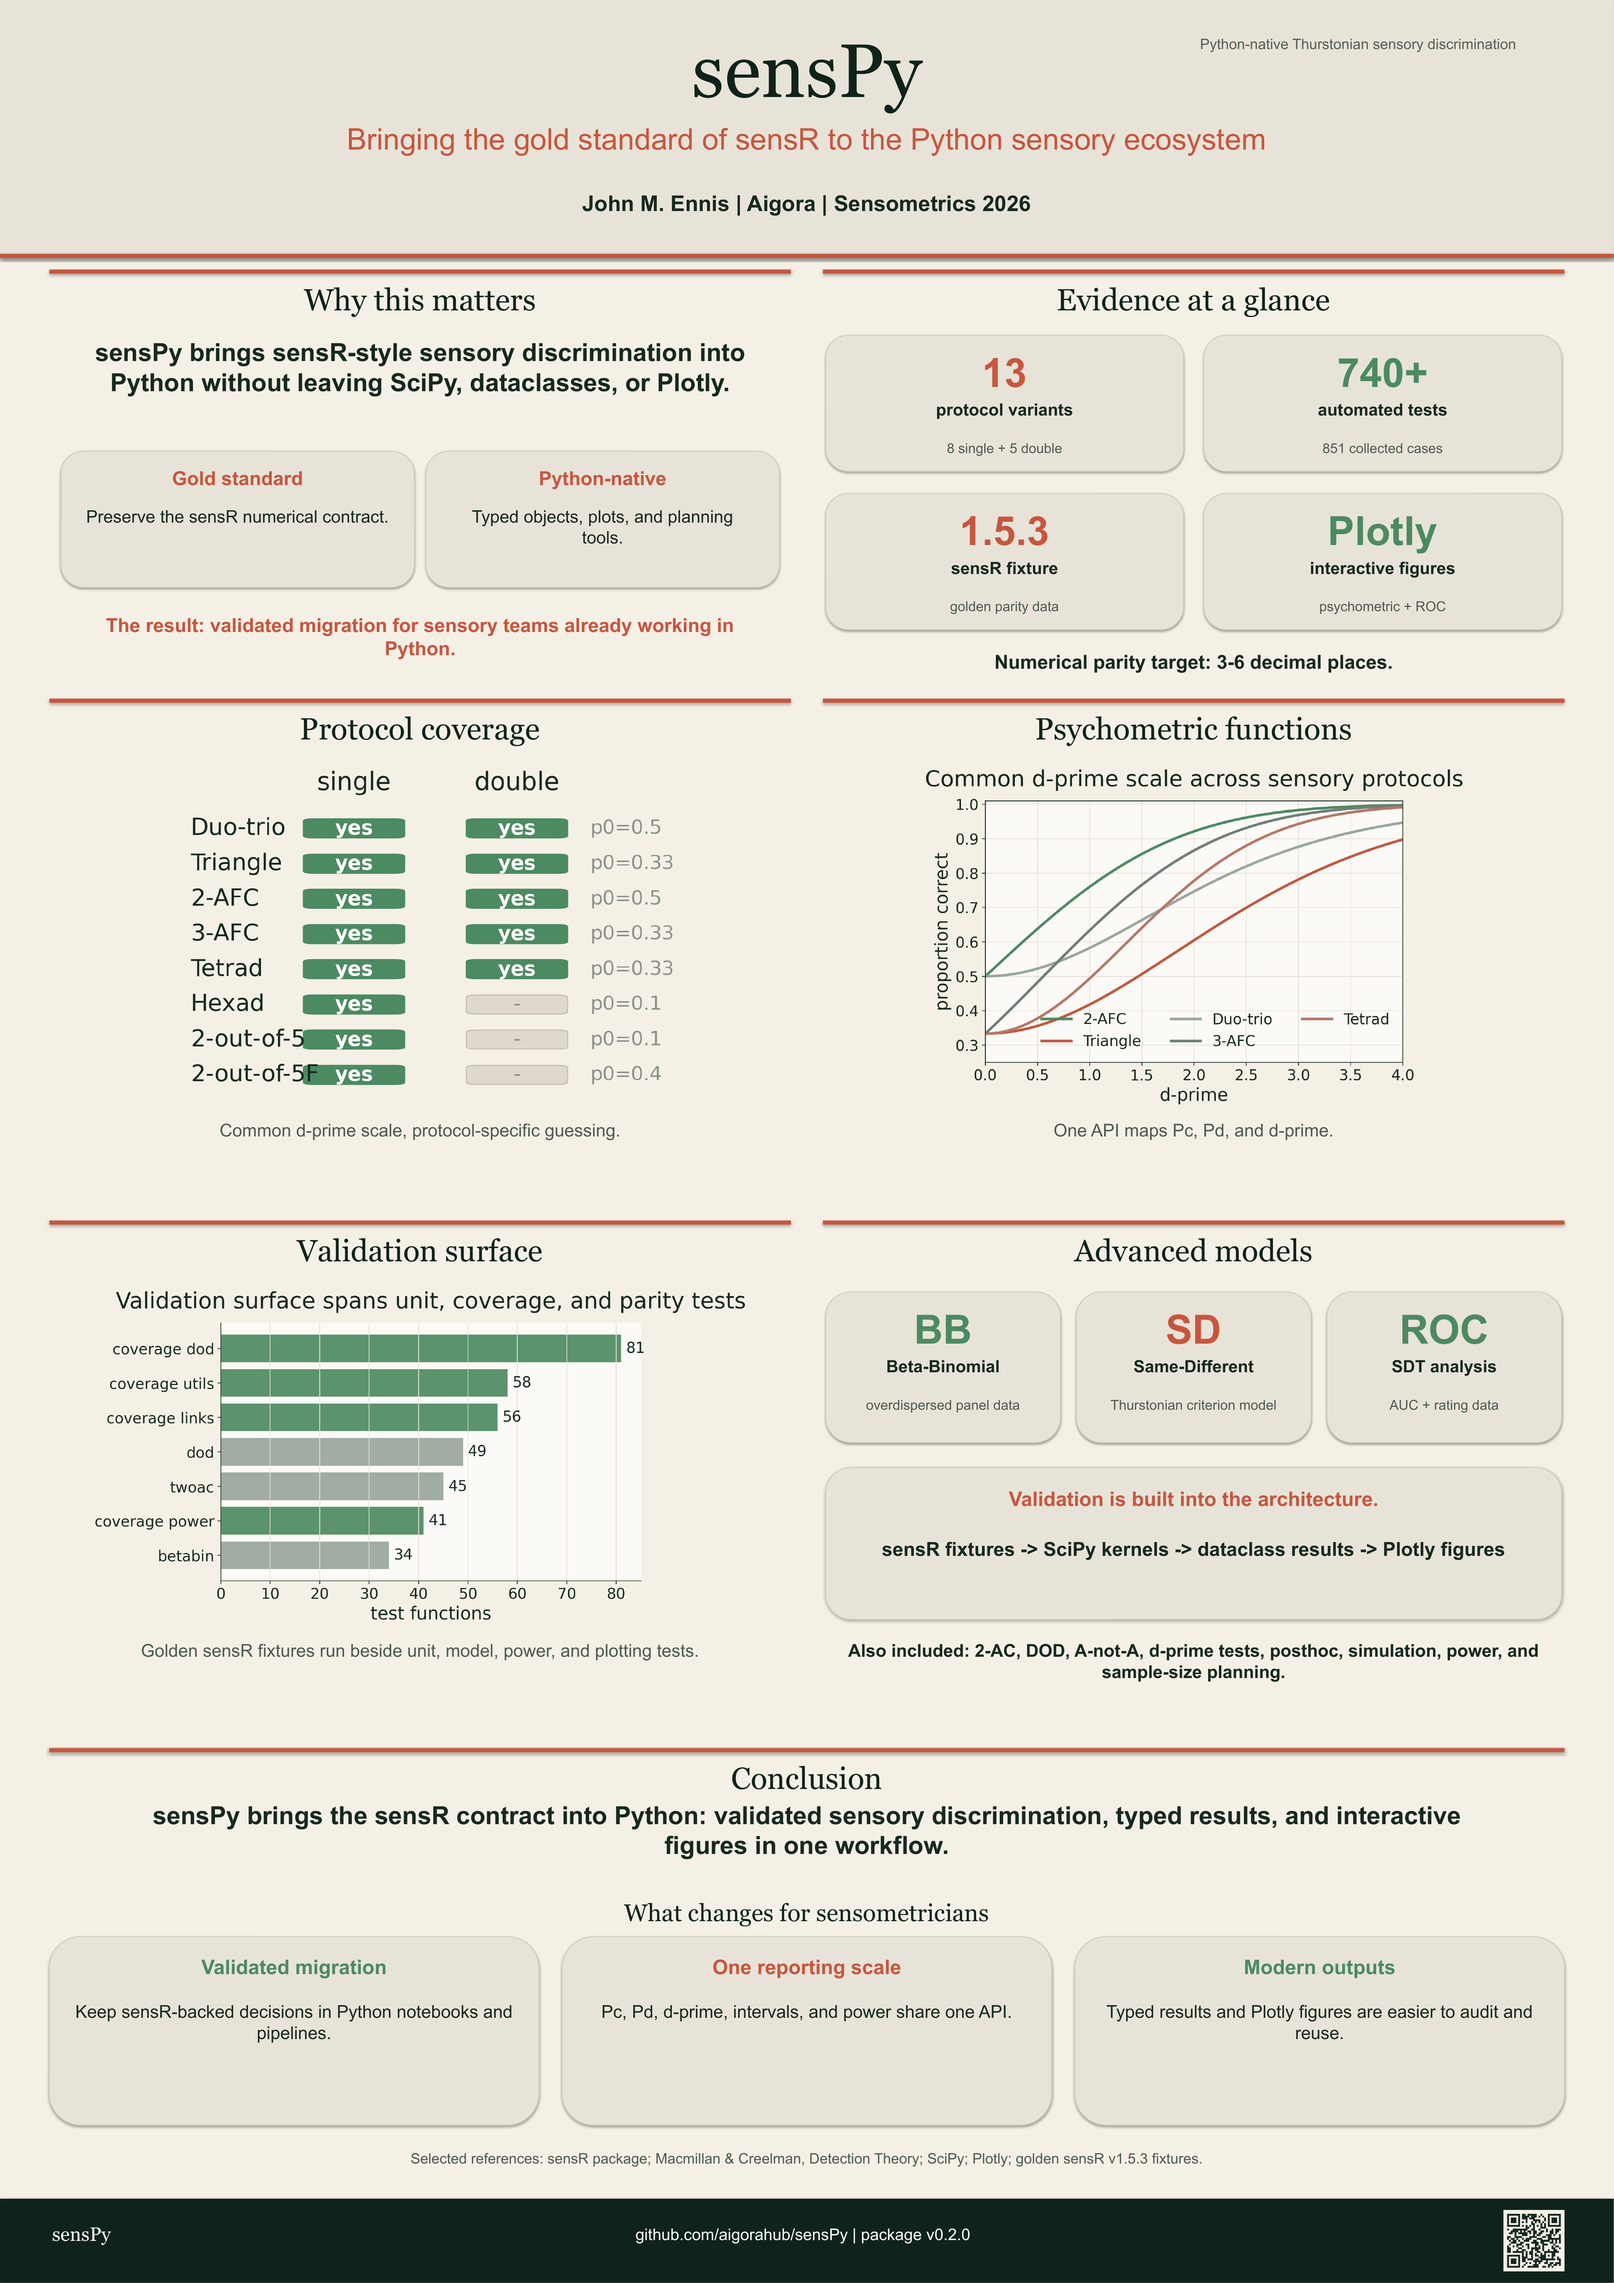
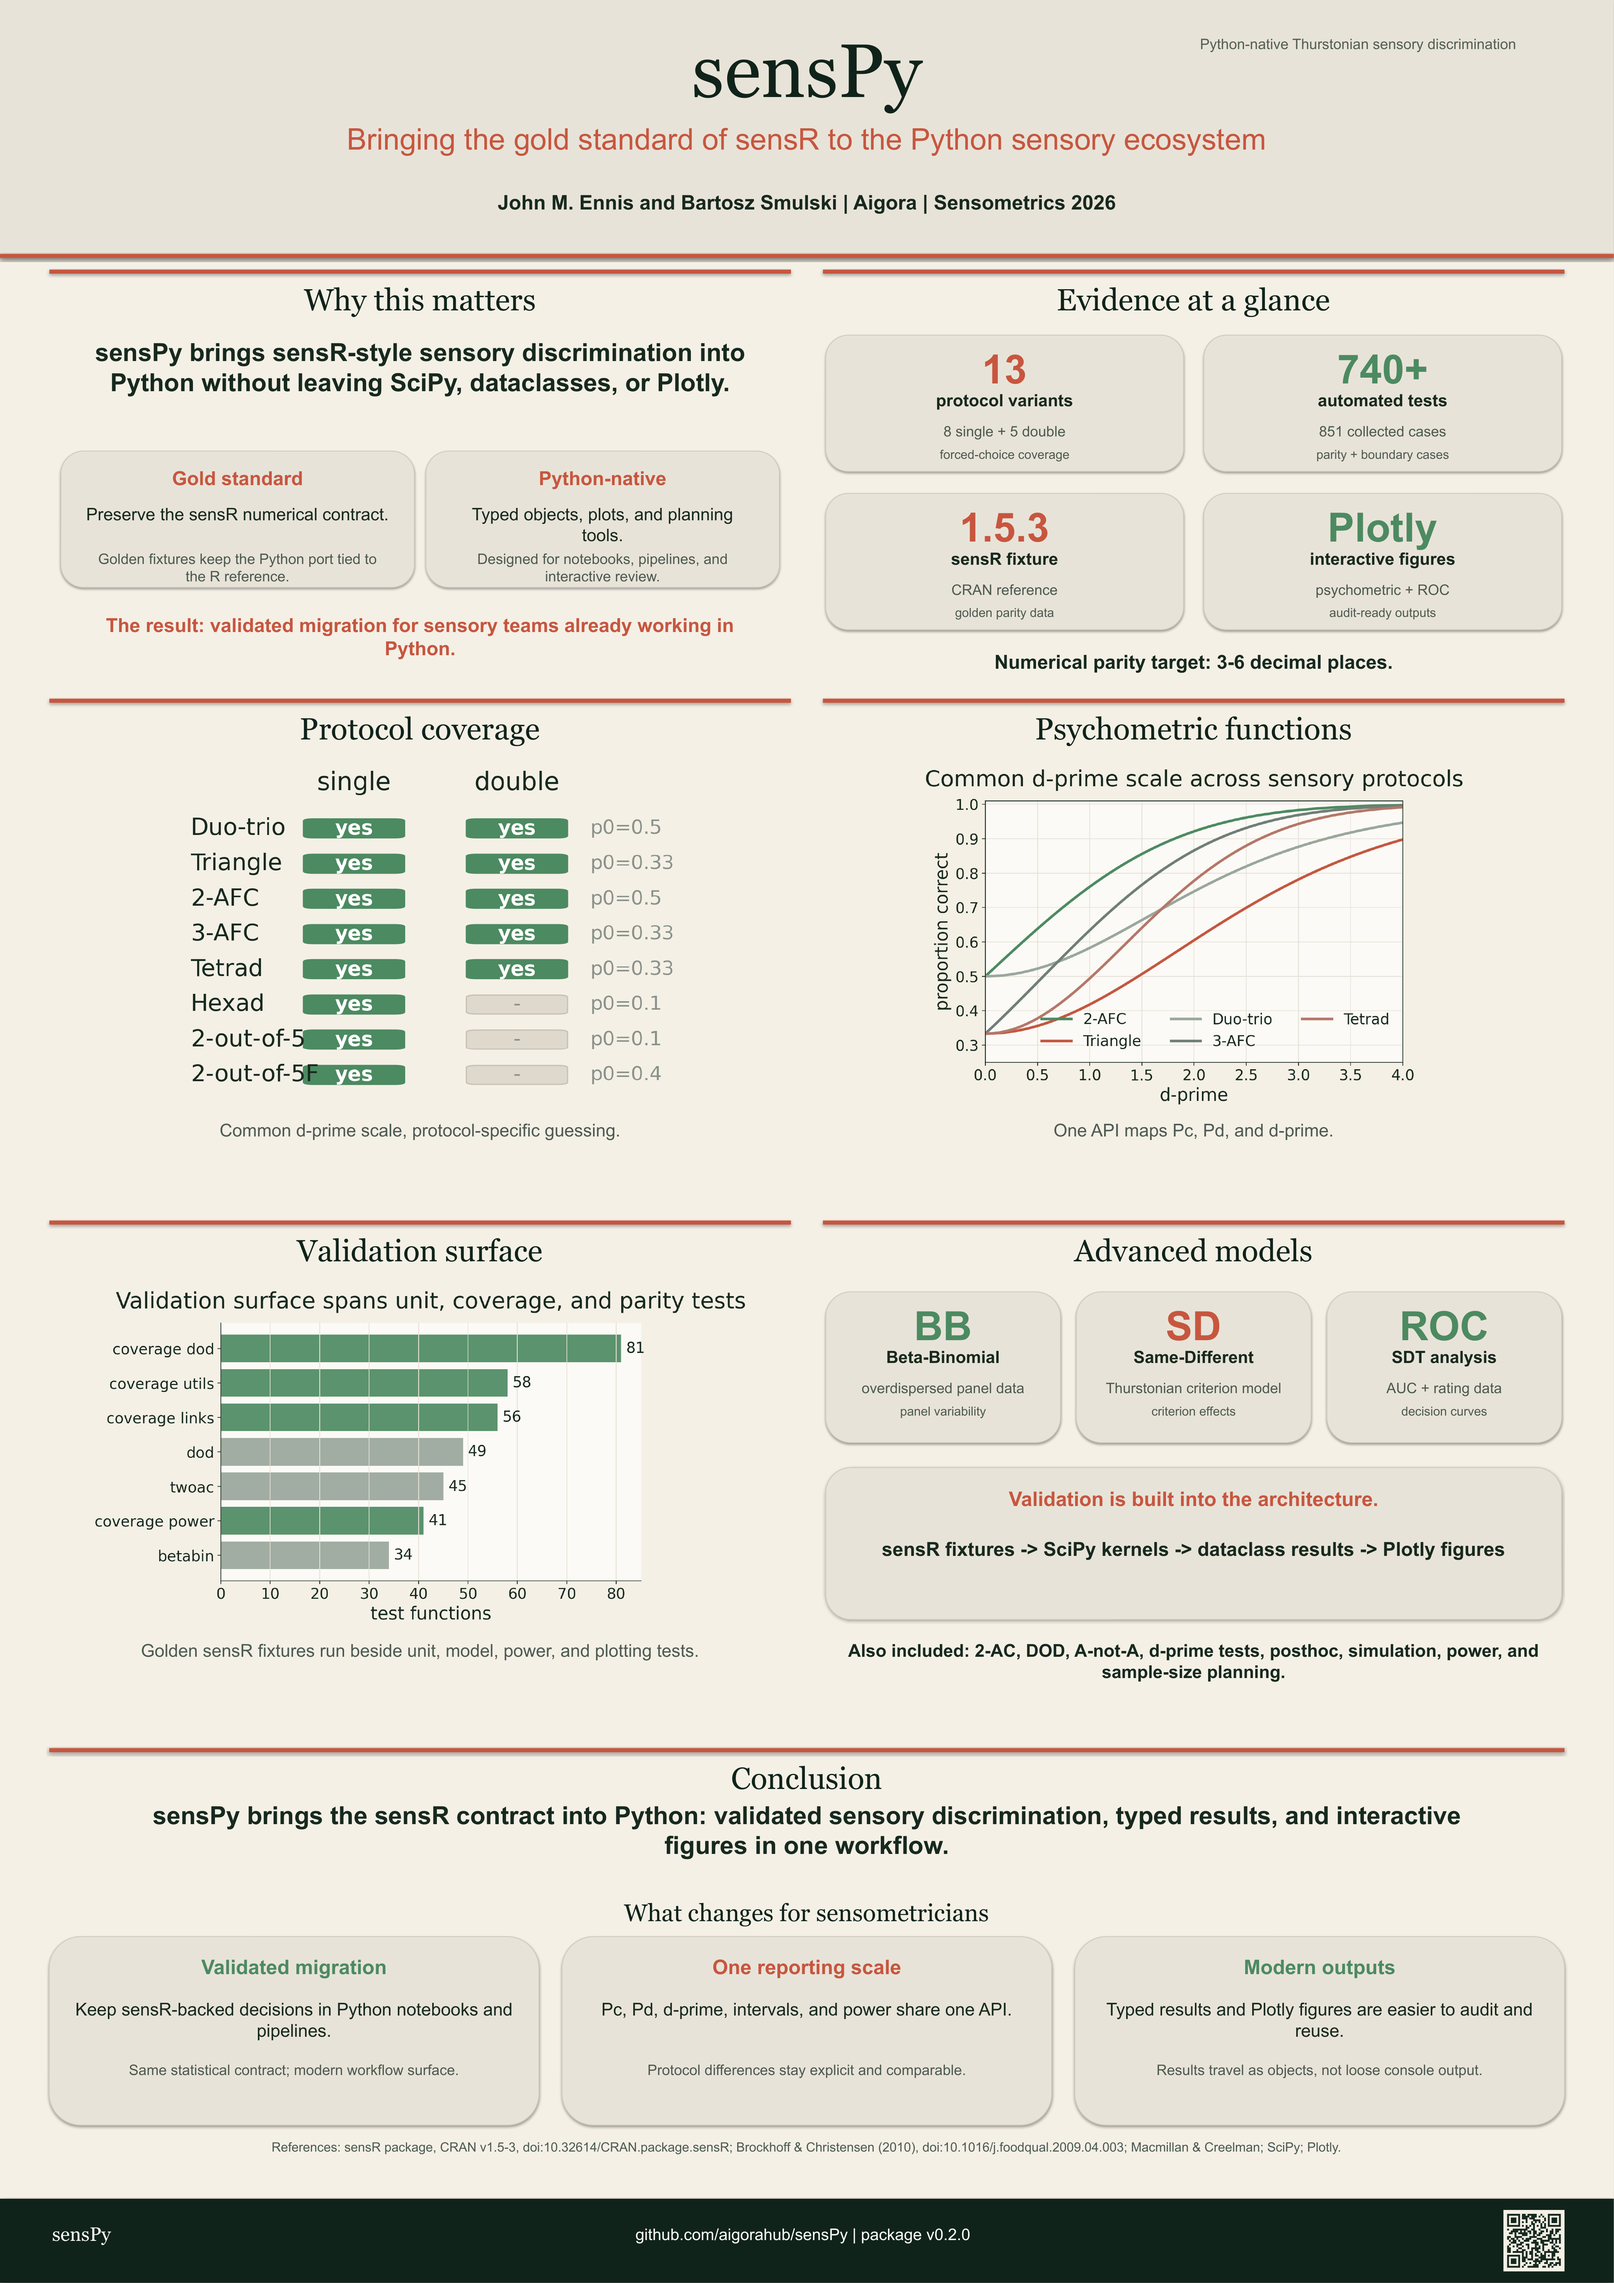
[codex/senspy-sensometrics-poster · Batch 4/4] Fill cards and cite sensR

diff --git a/poster/scripts/build_pptx.py b/poster/scripts/build_pptx.py
@@ -136,15 +136,15 @@ def add_image_fit(slide, path: Path, x, y, w, h):
     return pic
 
 
-def add_metric(slide, x, y, w, h, value, label, sub=None, *, color=CORAL):
+def add_metric(slide, x, y, w, h, value, label, sub=None, detail=None, *, color=CORAL):
     add_rect(slide, x, y, w, h, MIST, line="#d2c9bb", radius=True)
     add_text(
         slide,
         value,
         x + 0.08,
-        y + 0.18,
+        y + 0.12,
         w - 0.16,
-        0.78,
+        0.72,
         size=50,
         font=BODY,
         color=color,
@@ -156,7 +156,7 @@ def add_metric(slide, x, y, w, h, value, label, sub=None, *, color=CORAL):
         slide,
         label,
         x + 0.12,
-        y + 1.08,
+        y + 0.92,
         w - 0.24,
         0.62,
         size=21,
@@ -170,11 +170,25 @@ def add_metric(slide, x, y, w, h, value, label, sub=None, *, color=CORAL):
         add_text(
             slide,
             sub,
-            x + 0.14,
-            y + 1.78,
-            w - 0.28,
-            h - 1.78,
-            size=17,
+            x + 0.22,
+            y + 1.48,
+            w - 0.44,
+            0.42,
+            size=18,
+            font=BODY,
+            color="#4d5a52",
+            align=PP_ALIGN.CENTER,
+            margin=0,
+        )
+    if detail:
+        add_text(
+            slide,
+            detail,
+            x + 0.24,
+            y + 1.9,
+            w - 0.48,
+            max(h - 1.96, 0.35),
+            size=15.5,
             font=BODY,
             color="#4d5a52",
             align=PP_ALIGN.CENTER,
@@ -228,16 +242,20 @@ def add_compact_metric(slide, x, y, w, h, value, label, sub=None, *, color=CORAL
         )
 
 
-def add_callout(slide, x, y, w, h, title, body):
+def add_callout(slide, x, y, w, h, title, body, detail=None):
     add_rect(slide, x, y, w, h, MIST, line="#d2c9bb", radius=True)
     add_text(slide, title, x + 0.26, y + 0.24, w - 0.52, 0.5, size=24, color=CORAL, bold=True, align=PP_ALIGN.CENTER)
-    add_text(slide, body, x + 0.38, y + 0.92, w - 0.76, h - 1.05, size=21.5, color=INK, align=PP_ALIGN.CENTER)
+    add_text(slide, body, x + 0.38, y + 0.88, w - 0.76, 0.72, size=21.5, color=INK, align=PP_ALIGN.CENTER)
+    if detail:
+        add_text(slide, detail, x + 0.42, y + 1.68, w - 0.84, h - 1.82, size=18, color="#4d5a52", align=PP_ALIGN.CENTER)
 
 
-def add_takeaway(slide, x, y, w, h, title, body, *, color=CORAL):
+def add_takeaway(slide, x, y, w, h, title, body, detail=None, *, color=CORAL):
     add_rect(slide, x, y, w, h, MIST, line="#d2c9bb", radius=True)
     add_text(slide, title, x + 0.28, y + 0.28, w - 0.56, 0.58, size=25, color=color, bold=True, align=PP_ALIGN.CENTER, margin=0)
-    add_text(slide, body, x + 0.42, y + 1.08, w - 0.84, h - 1.24, size=22, color=INK, align=PP_ALIGN.CENTER, margin=0)
+    add_text(slide, body, x + 0.42, y + 1.04, w - 0.84, 0.95, size=22, color=INK, align=PP_ALIGN.CENTER, margin=0)
+    if detail:
+        add_text(slide, detail, x + 0.52, y + 2.12, w - 1.04, h - 2.34, size=18, color="#4d5a52", align=PP_ALIGN.CENTER, margin=0)
 
 
 def build_header(slide):
@@ -271,12 +289,12 @@ def build_header(slide):
     )
     add_text(
         slide,
-        "John M. Ennis | Aigora | Sensometrics 2026",
+        "John M. Ennis and Bartosz Smulski | Aigora | Sensometrics 2026",
         M,
         3.25,
         SLIDE_W - 2 * M,
         0.5,
-        size=27,
+        size=25,
         font=BODY,
         color=INK,
         bold=True,
@@ -329,6 +347,7 @@ def build_problem(slide):
         2.35,
         "Gold standard",
         "Preserve the sensR numerical contract.",
+        "Golden fixtures keep the Python port tied to the R reference.",
     )
     add_callout(
         slide,
@@ -338,6 +357,7 @@ def build_problem(slide):
         2.35,
         "Python-native",
         "Typed objects, plots, and planning tools.",
+        "Designed for notebooks, pipelines, and interactive review.",
     )
     add_text(
         slide,
@@ -357,10 +377,10 @@ def build_metrics(slide, summary):
     y = add_heading(slide, "Evidence at a glance", RIGHT_X, 4.65, COL_W)
     card_w = (COL_W - 0.45) / 2
     xs = [RIGHT_X + 0.05, RIGHT_X + 0.4 + card_w]
-    add_metric(slide, xs[0], y + 0.05, card_w, 2.35, "13", "protocol variants", "8 single + 5 double")
-    add_metric(slide, xs[1], y + 0.05, card_w, 2.35, "740+", "automated tests", f"{summary['collected_pytest_items']} collected cases", color=GREEN)
-    add_metric(slide, xs[0], y + 2.78, card_w, 2.35, summary["sensr_version"], "sensR fixture", "golden parity data")
-    add_metric(slide, xs[1], y + 2.78, card_w, 2.35, "Plotly", "interactive figures", "psychometric + ROC", color=GREEN)
+    add_metric(slide, xs[0], y + 0.05, card_w, 2.35, "13", "protocol variants", "8 single + 5 double", "forced-choice coverage")
+    add_metric(slide, xs[1], y + 0.05, card_w, 2.35, "740+", "automated tests", f"{summary['collected_pytest_items']} collected cases", "parity + boundary cases", color=GREEN)
+    add_metric(slide, xs[0], y + 2.78, card_w, 2.35, summary["sensr_version"], "sensR fixture", "CRAN reference", "golden parity data")
+    add_metric(slide, xs[1], y + 2.78, card_w, 2.35, "Plotly", "interactive figures", "psychometric + ROC", "audit-ready outputs", color=GREEN)
     add_text(
         slide,
         "Numerical parity target: 3-6 decimal places.",
@@ -392,9 +412,9 @@ def build_api_and_models(slide):
 
     y2 = add_heading(slide, "Advanced models", RIGHT_X, 21.05, COL_W)
     w = (COL_W - 0.65) / 3
-    add_metric(slide, RIGHT_X + 0.05, y2 + 0.15, w, 2.6, "BB", "Beta-Binomial", "overdispersed panel data", color=GREEN)
-    add_metric(slide, RIGHT_X + 0.325 + w, y2 + 0.15, w, 2.6, "SD", "Same-Different", "Thurstonian criterion model")
-    add_metric(slide, RIGHT_X + 0.6 + 2 * w, y2 + 0.15, w, 2.6, "ROC", "SDT analysis", "AUC + rating data", color=GREEN)
+    add_metric(slide, RIGHT_X + 0.05, y2 + 0.15, w, 2.6, "BB", "Beta-Binomial", "overdispersed panel data", "panel variability", color=GREEN)
+    add_metric(slide, RIGHT_X + 0.325 + w, y2 + 0.15, w, 2.6, "SD", "Same-Different", "Thurstonian criterion model", "criterion effects")
+    add_metric(slide, RIGHT_X + 0.6 + 2 * w, y2 + 0.15, w, 2.6, "ROC", "SDT analysis", "AUC + rating data", "decision curves", color=GREEN)
     add_rect(slide, RIGHT_X + 0.05, y2 + 3.18, COL_W - 0.1, 2.62, MIST, line="#d2c9bb", radius=True)
     add_text(
         slide,
@@ -471,6 +491,7 @@ def build_conclusion(slide):
         3.25,
         "Validated migration",
         "Keep sensR-backed decisions in Python notebooks and pipelines.",
+        "Same statistical contract; modern workflow surface.",
         color=GREEN,
     )
     add_takeaway(
@@ -481,6 +502,7 @@ def build_conclusion(slide):
         3.25,
         "One reporting scale",
         "Pc, Pd, d-prime, intervals, and power share one API.",
+        "Protocol differences stay explicit and comparable.",
     )
     add_takeaway(
         slide,
@@ -490,16 +512,17 @@ def build_conclusion(slide):
         3.25,
         "Modern outputs",
         "Typed results and Plotly figures are easier to audit and reuse.",
+        "Results travel as objects, not loose console output.",
         color=GREEN,
     )
     add_text(
         slide,
-        "Selected references: sensR package; Macmillan & Creelman, Detection Theory; SciPy; Plotly; golden sensR v1.5.3 fixtures.",
+        "References: sensR package, CRAN v1.5-3, doi:10.32614/CRAN.package.sensR; Brockhoff & Christensen (2010), doi:10.1016/j.foodqual.2009.04.003; Macmillan & Creelman; SciPy; Plotly.",
         M + 1.6,
-        y + 6.9,
+        y + 6.72,
         SLIDE_W - 2 * M - 3.2,
-        0.6,
-        size=18,
+        0.82,
+        size=16,
         color="#4d5a52",
         align=PP_ALIGN.CENTER,
     )

diff --git a/poster/EXECUTION_LOG.md b/poster/EXECUTION_LOG.md
@@ -2,10 +2,10 @@
 
 ## Run Digest
 
-- **Last updated:** 2026-05-07 22:17 EDT
+- **Last updated:** 2026-05-07 22:35 EDT
 - **Current phase:** Complete
 - **Active batch:** none
-- **Last completed batch:** User Large-Type Redesign Follow-Up
+- **Last completed batch:** User Card-Fill And Citation Follow-Up
 - **Next exact batch:** none
 - **Active PR:** #1
 - **Docs promoted this run:** `poster/LEARNINGS.md`
@@ -473,6 +473,35 @@
 
 **Next:**
 1. Commit and push the large-type redesign.
+2. Send final handoff.
+
+---
+
+## 2026-05-07 22:35 EDT
+
+**Batch:** user-directed card-fill and citation follow-up
+**Contract status:** complete
+
+**What changed:**
+- Added Bartosz Smulski to the poster author line.
+- Filled dead space inside the evidence, positioning, advanced-model, and takeaway cards with short supporting lines.
+- Added an explicit sensR citation in the references line: CRAN package DOI plus the Brockhoff & Christensen methods DOI.
+- Rebalanced metric card internal spacing after visual inspection showed bottom support text too close to card borders.
+- Regenerated PPTX and PNG print artifacts.
+
+**Commands run:**
+- `poster/.venv/bin/python -m compileall -q poster/scripts` -> PASS.
+- `bash poster/build.sh` -> PASS; export remains 4175 x 5906 and poster QA passed.
+- `poster/.venv/bin/python poster/scripts/qa_check.py` -> PASS.
+- Visual inspection of the regenerated PNG -> PASS after one card-spacing adjustment.
+
+**Regression attestation:**
+- No sensPy statistical code or tests changed.
+- Poster artifact pipeline still passes.
+- Workspace remains clean except the pre-existing untracked `.agents/` directory after commit.
+
+**Next:**
+1. Commit and push the card/citation follow-up.
 2. Send final handoff.
 
 ---

diff --git a/poster/LEARNINGS.md b/poster/LEARNINGS.md
@@ -14,6 +14,7 @@
 - 2026-05-07: External model review should use an explicitly configured credential or authenticated CLI session; do not search unrelated repositories for API keys.
 - 2026-05-07: For B1 conference posters, tune the type scale for distance first: avoid 10-12 pt secondary details, remove redundant chart annotations before shrinking them, and keep fine print limited to references/QR-support text.
 - 2026-05-07: If a poster still reads too small after a type bump, remove content instead of continuing to squeeze: cut code samples, reduce chart categories, and replace miniature diagrams with large narrative statements.
+- 2026-05-07: Cite sensR explicitly on poster artifacts as the CRAN package with DOI `10.32614/CRAN.package.sensR`; when space allows, also cite Brockhoff & Christensen (2010), DOI `10.1016/j.foodqual.2009.04.003`, for the underlying methods.
 
 ## Review Heuristics
 
